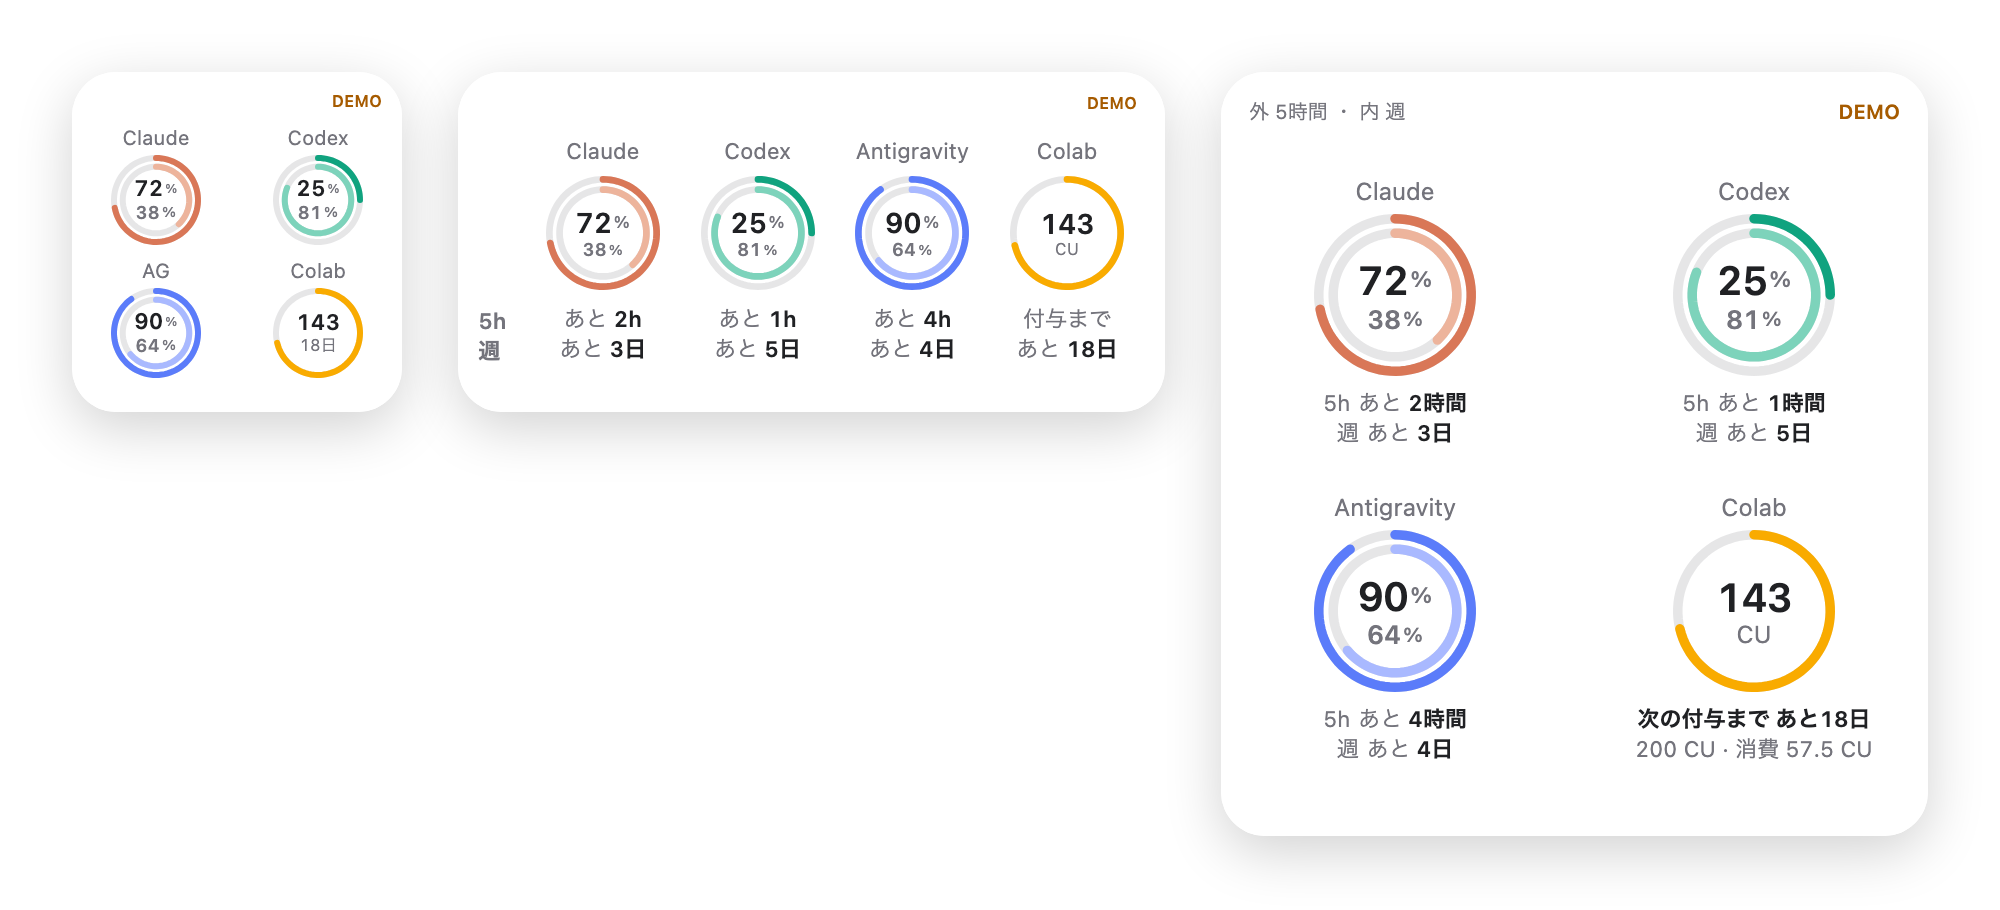
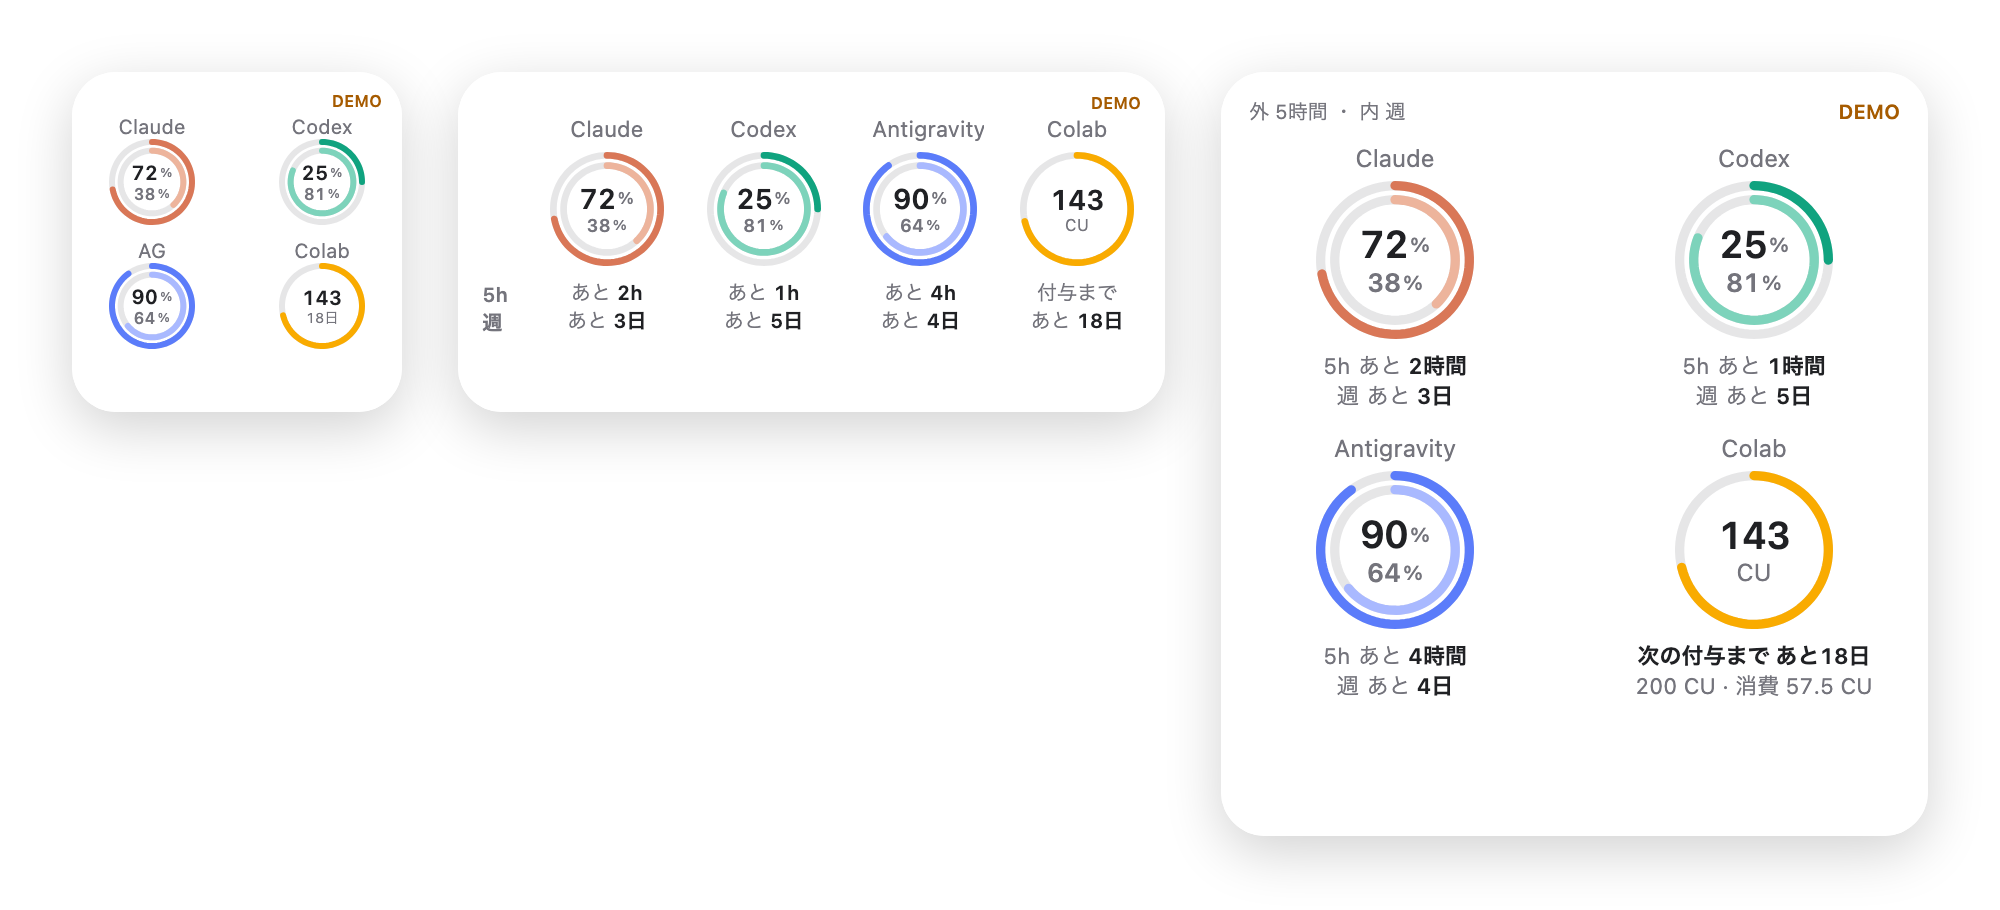
Fit ring widgets inside the smallest sizes on devices
On a device a flexible spacer is never shorter than about 8 pt, so the
medium layout overflowed (right-hand rings were cut off) and the small
one ran off the bottom. Layouts now budget every spacer against 155,
329×155 and 329×345; rings are centred with fixed margins. The preview
gives flexible spacers the same minimum and clips fixed-size stacks.

diff --git a/Scriptable/AI Usage.js b/Scriptable/AI Usage.js
@@ -674,11 +674,13 @@ function buildRingWidget(snapshot, status, family, now, grantDay) {
   })();
   const hint = [snapshot.isDemo ? "DEMO" : status === "syncFailed" || status === "cachedNewer" ? t("syncPending") : "", ageText]
     .filter(Boolean).join(" · ");
-  // Medium keeps a wider leading inset: on devices the 5h/week labels sat right on the edge.
-  const pad = small ? [10, 10, 10, 10] : large ? [14, 14, 14, 14] : [11, 14, 11, 10];
+  // Budgets fit the smallest widgets (small 155×155, medium 329×155, large 329×345). On a device a
+  // flexible spacer is never shorter than about 8 pt, so every one of them is counted.
+  const pad = small ? [10, 10, 10, 10] : large ? [14, 14, 14, 14] : [11, 12, 11, 12];
   w.setPadding(pad[0], pad[1], pad[2], pad[3]);
-  const size = small ? (hint ? 46 : 50) : large ? 82 : (hint ? 58 : 64);
-  const lineH = 15, font = 11;
+  const size = small ? (hint ? 44 : 48) : large ? 80 : 58;
+  const lineH = large ? 15 : 14, font = large ? 11 : 10;
+  const cellW = small ? 60 : large ? 146 : 64;
 
   // Names stay neutral; staleness is reported once, in the corner.
   const name = (parent, id, fontSize) => {
@@ -704,11 +706,13 @@ function buildRingWidget(snapshot, status, family, now, grantDay) {
   };
   const ring = (parent, id, r) => {
     // A fixed-size stack sits at the leading edge of a column on a device, so it is centred
-    // inside a full-width row instead.
-    const holder = row(parent); holder.addSpacer();
+    // with fixed side margins (flexible spacers would add their 8 pt minimum and overflow).
+    const holder = row(parent); holder.size = new Size(cellW, size);
+    const margin = Math.max(0, Math.floor((cellW - size) / 2));
+    if (margin) holder.addSpacer(margin);
     const colors = RING_COLORS[id], s = box(holder, size, size);
-    holder.addSpacer();
-    const main = Math.round(size * 0.24), sub = Math.max(9, Math.round(size * 0.16));
+    if (margin) holder.addSpacer(margin);
+    const main = Math.round(size * (small ? 0.22 : 0.24)), sub = small ? 8 : Math.max(9, Math.round(size * 0.16));
     let rings, top = null, bottom = null, unit = "%";
     if (id === "colab") {
       const a = allocationStats(r), g = grantStatus(r, grantDay, now);
@@ -760,57 +764,62 @@ function buildRingWidget(snapshot, status, family, now, grantDay) {
     one.addSpacer(); two.addSpacer();
   };
 
+  const header = (fontSize, legend) => {
+    const h = row(w);
+    if (legend) text(h, t("ringLegend"), fontSize, theme.secondary);
+    h.addSpacer();
+    if (hint) text(h, hint, fontSize, theme.warning, "semibold");
+  };
+
   if (small) {
-    if (hint) { const h = row(w); h.addSpacer(); text(h, hint, 8, theme.warning, "semibold"); w.addSpacer(2); }
-    for (const pair of [ids.slice(0, 2), ids.slice(2)]) {
-      w.addSpacer();
+    // 2 rows × (name 12 + 2 + ring) + 4, plus a 12 pt header when there is a hint.
+    if (hint) { header(8, false); w.addSpacer(2); } else w.addSpacer(4);
+    for (const [index, pair] of [ids.slice(0, 2), ids.slice(2)].entries()) {
+      if (index) w.addSpacer(4);
       const line = row(w);
       pair.forEach((id, i) => {
         if (i) line.addSpacer();
-        const r = record(id), cell = box(line, 64, size + 15);
-        name(cell, id, 10); cell.addSpacer(2); ring(cell, id, r);
+        const cell = box(line, cellW, 14 + size);
+        name(cell, id, 10); ring(cell, id, record(id));
       });
     }
-    w.addSpacer();
     return w;
   }
 
   if (large) {
-    const head = row(w);
-    text(head, t("ringLegend"), 10, theme.secondary); head.addSpacer();
-    if (hint) text(head, hint, 10, theme.warning, "semibold");
+    header(10, true);
     w.addSpacer(6);
-    for (const pair of [ids.slice(0, 2), ids.slice(2)]) {
-      w.addSpacer();
+    for (const [index, pair] of [ids.slice(0, 2), ids.slice(2)].entries()) {
+      w.addSpacer(index ? 10 : 4);
       const line = row(w);
       pair.forEach((id, i) => {
         if (i) line.addSpacer();
-        const r = record(id), cell = box(line, 146, 15 + 4 + size + 6 + lineH * 2);
+        const r = record(id), cell = box(line, cellW, 15 + 4 + size + 6 + lineH * 2);
         name(cell, id, 12); cell.addSpacer(4); ring(cell, id, r); cell.addSpacer(6);
-        if (id === "colab") colabLines(cell, 146, r);
-        else { resetLine(cell, 146, r.fiveHour, t("fiveShort")); resetLine(cell, 146, r.weekly, t("weekShort")); }
+        if (id === "colab") colabLines(cell, cellW, r);
+        else { resetLine(cell, cellW, r.fiveHour, t("fiveShort")); resetLine(cell, cellW, r.weekly, t("weekShort")); }
       });
     }
     w.addSpacer();
     return w;
   }
 
-  // Medium: the window labels appear once, at the left edge of the two reset lines.
-  if (hint) { const h = row(w); h.addSpacer(); text(h, hint, 8, theme.warning, "semibold"); w.addSpacer(2); }
-  const colW = 70, colH = 14 + 5 + size + 7 + lineH * 2;
-  w.addSpacer();
+  // Medium: label column 16 + 4 × (8 pt spacer + 64) = 304 of the 305 pt inside the smallest widget.
+  const colH = 14 + 4 + size + 6 + lineH * 2;
+  // Centred vertically: 8 + 110 + 8 without a hint; with one, the header takes the top spacer's place.
+  if (hint) { header(8, false); w.addSpacer(2); } else w.addSpacer();
   const main = row(w);
-  const side = box(main, 20, colH); side.addSpacer();
+  const side = box(main, 16, colH); side.addSpacer();
   const hasFiveHour = ["claude", "codex", "antigravity"].some(id => record(id).fiveHour != null);
   for (const label of [hasFiveHour ? t("fiveShort") : "", t("weekShort")]) {
-    const l = row(side); l.size = new Size(20, lineH); text(l, label, font, theme.secondary, "semibold", 0.5); l.addSpacer();
+    const l = row(side); l.size = new Size(16, lineH); text(l, label, font, theme.secondary, "semibold", 0.5);
   }
   ids.forEach(id => {
     main.addSpacer();
-    const r = record(id), col = box(main, colW, colH);
-    name(col, id, 11); col.addSpacer(5); ring(col, id, r); col.addSpacer(7);
-    if (id === "colab") colabLines(col, colW, r);
-    else { resetLine(col, colW, r.fiveHour); resetLine(col, colW, r.weekly); }
+    const r = record(id), col = box(main, cellW, colH);
+    name(col, id, 11); col.addSpacer(4); ring(col, id, r); col.addSpacer(6);
+    if (id === "colab") colabLines(col, cellW, r);
+    else { resetLine(col, cellW, r.fiveHour); resetLine(col, cellW, r.weekly); }
   });
   w.addSpacer();
   return w;

diff --git a/Mac/WidgetPreview.html b/Mac/WidgetPreview.html
@@ -69,9 +69,10 @@ function previewMarkup(node, appearance, parentDirection = 'column') {
     return `<span class="text" style="font-size:${node.font.size}px;font-weight:${node.font.weight};color:${color(node.textColor)};font-family:${node.font.rounded ? 'ui-rounded,' : ''}-apple-system,BlinkMacSystemFont,sans-serif">${escapePreviewText(node.value)}</span>`;
   }
   if (node.type === 'spacer') {
-    return `<i style="${node.value == null ? 'flex:1;min-width:0;min-height:0' : `flex:none;${parentDirection === 'row' ? 'width' : 'height'}:${node.value}px`}"></i>`;
+    // A flexible spacer keeps SwiftUI's default minimum length (about 8 pt) on a device.
+    return `<i style="${node.value == null ? `flex:1;${parentDirection === 'row' ? 'min-width:8px;min-height:0' : 'min-height:8px;min-width:0'}` : `flex:none;${parentDirection === 'row' ? 'width' : 'height'}:${node.value}px`}"></i>`;
   }
-  const styles = [`display:flex;flex-direction:${node.direction}`, `align-items:${node.center ? 'center' : node.bottom ? 'baseline' : 'stretch'}`, 'flex-shrink:0'];
+  const styles = [`display:flex;flex-direction:${node.direction}`, `align-items:${node.center ? 'center' : node.bottom ? 'baseline' : 'stretch'}`, 'flex-shrink:0', ...(node.size?.width > 0 || node.size?.height > 0 ? ['overflow:hidden'] : [])];
   if (node.padding) styles.push(`padding:${node.padding.map(v => v + 'px').join(' ')}`);
   // Like Scriptable on a device: a stack without a fixed width fills its parent — across a row,
   // and the full width of a column — and its own content starts at the leading edge. A stack
